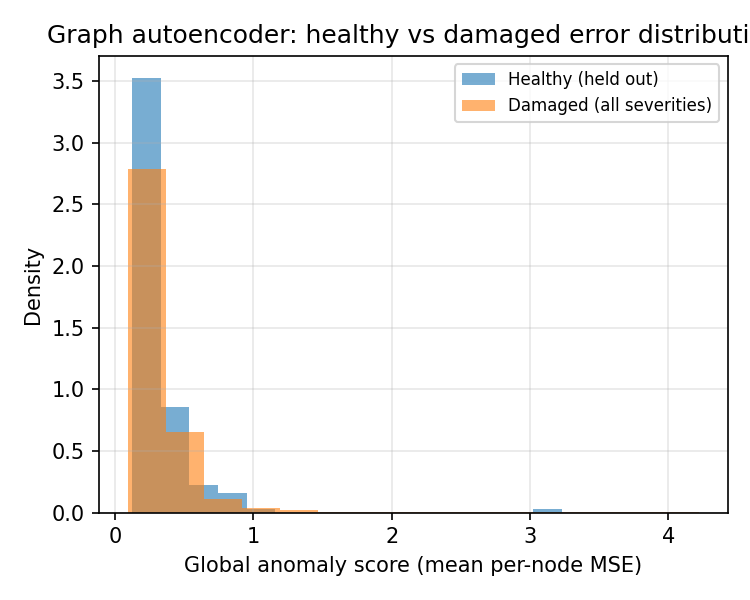
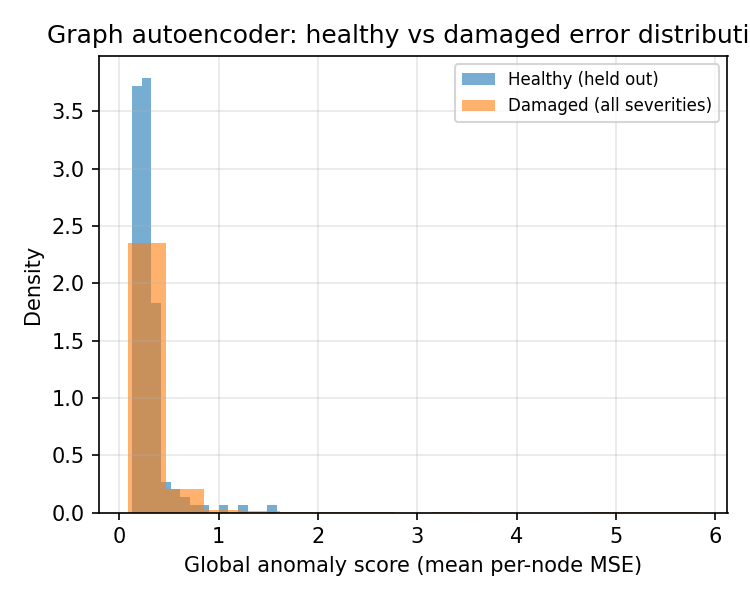
Regenerate Stage 1-3 at LUMO's real sampling rate, fix a Welch resolution bug
Rerunning the full pipeline at the new 1651.61 Hz rate (previous commit)
surfaced a real bug: Welch's frequency resolution is sampling_rate_hz /
nperseg, not a function of nperseg alone, so the fixed nperseg=256 made
resolution get coarser every time sampling rate went up, smearing out
the one feature that separates healthy from damaged. Fixed by targeting
a fixed resolution instead. Every Stage 1-3 figure and number is
regenerated from this rerun; results are weaker in absolute terms than
the original 500 Hz run but every prior conclusion still holds.

Also reduces the multi-location and leave-one-location-out follow-up
experiments' per-class instance count (40 -> 15), since the new window
length raised per-instance simulation cost roughly 3.3x and the original
count was no longer practical to rerun in reasonable time.

diff --git a/src/features/spectral.py b/src/features/spectral.py
@@ -17,7 +17,14 @@ def spectral_features(windows: np.ndarray, sampling_rate_hz: float, band_edges_h
     dict of (n_windows, n_sensors) arrays.
     """
     window_length = windows.shape[-1]
-    nperseg = min(256, window_length)
+    # Welch's frequency resolution is sampling_rate_hz / nperseg, not a
+    # function of nperseg alone: a fixed nperseg (e.g. 256) gets coarser,
+    # in Hz, every time sampling_rate_hz goes up. Targeting a fixed
+    # resolution instead keeps behaviour consistent across sampling
+    # rates. ~2 Hz was the resolution the project's original 500 Hz,
+    # 256-sample setup happened to use; kept as the target here.
+    target_resolution_hz = 2.0
+    nperseg = min(window_length, round(sampling_rate_hz / target_resolution_hz))
     freqs, psd = welch(windows, fs=sampling_rate_hz, nperseg=nperseg, axis=-1)
     # freqs: (n_freq,), psd: (n_windows, n_sensors, n_freq)
 

diff --git a/scripts/day3_multi_location_experiment.py b/scripts/day3_multi_location_experiment.py
@@ -64,7 +64,10 @@ FIGURES_DIR = REPO_ROOT / "figures"
 NON_FEATURE_COLUMNS = ("window_id", "sensor_idx", "sensor_node_id", "instance_id",
                         "damage_severity", "temperature_c")
 
-N_INSTANCES_PER_CLASS = 40  # reduced from the main pipeline's 150, see module docstring
+N_INSTANCES_PER_CLASS = 15  # reduced from the main pipeline's 150, see module docstring; further reduced
+                             # from an earlier 40 after Stage 4's sampling-rate change (500 -> 1651.61 Hz,
+                             # window_length 1024 -> 3383) raised the cost per simulated instance by
+                             # roughly 3.3x, to keep this experiment's runtime reasonable
 SIM_SEED = 101               # separate from model_cfg.random_seed: independently reproducible
 
 

diff --git a/scripts/day3_leave_one_location_out_experiment.py b/scripts/day3_leave_one_location_out_experiment.py
@@ -58,7 +58,8 @@ NON_FEATURE_COLUMNS = ("window_id", "sensor_idx", "sensor_node_id", "instance_id
                         "damage_severity", "temperature_c")
 
 N_LOCATIONS = 12
-N_INSTANCES_PER_CLASS = 40   # matches day3_multi_location_experiment.py
+N_INSTANCES_PER_CLASS = 15   # matches day3_multi_location_experiment.py; see that file's comment on why
+                              # this was reduced from an earlier 40 after Stage 4's sampling-rate change
 SIM_SEED = 202                # separate from that script's seed (101) and model_cfg.random_seed
 
 
